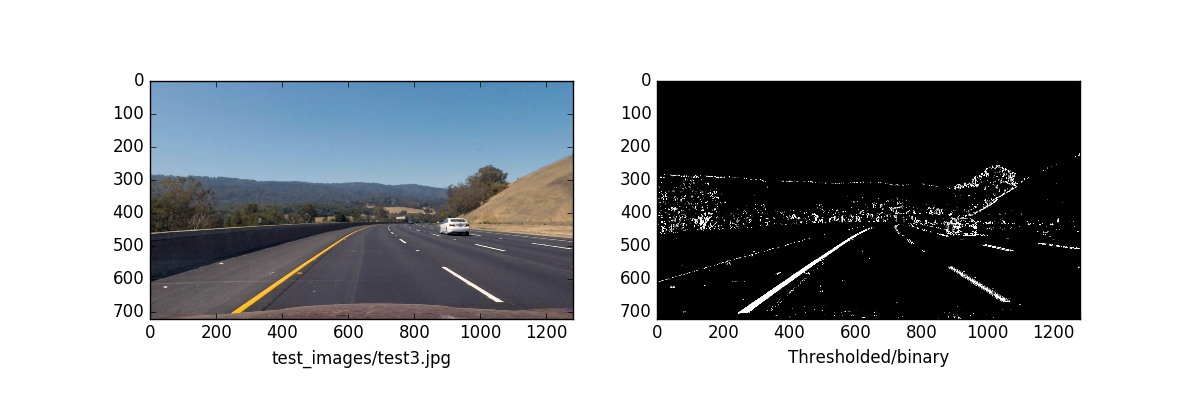
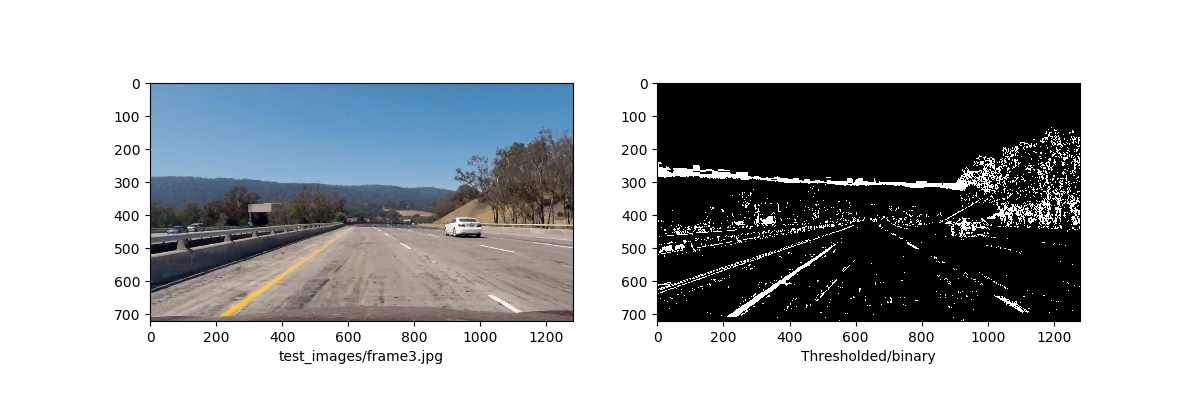
Improved frame-to-frame smoothing

diff --git a/p4.py b/p4.py
@@ -87,8 +87,14 @@ def transform_binary(img, sobel_kernel=3, s_thresh=(150, 255), sx_thresh=(20, 10
     color_binary = np.dstack((combined_binary,combined_binary,combined_binary))
 
     # pick from colors
-    yellow = cv2.inRange(hls,(10,0,200),(40,200,255))
-    white =  cv2.inRange(hls,(10,200,150),(40,250,255))
+
+    # hls = cv2.cvtColor(img, cv2.COLOR_RGB2HLS)
+    # yellow = cv2.inRange(hls,(10,0,200),(40,200,255))
+    # white =  cv2.inRange(hls,(10,200,150),(40,250,255))
+
+    hsv = cv2.cvtColor(img, cv2.COLOR_RGB2HSV)
+    yellow = cv2.inRange(hsv,(0,100,100),(50,255,255))
+    white =  cv2.inRange(hsv,(20,0,180),(255,80,255))
     yw = yellow | white | combined_binary
     yw_color = np.dstack((yw,yw,yw))
 
@@ -142,11 +148,13 @@ def detect_lanelines_swin(binary_warped):
     """This part of the code was based on Udacity module content"""
     # Assuming you have created a warped binary image called "binary_warped"
 
+    ny, nx = binary_warped.shape
+
     # Take a histogram of the bottom half of the image
     histogram = np.sum(binary_warped[int(binary_warped.shape[0]/2):, :], axis=0)
 
     # Create an output image to draw on and  visualize the result
-    out_img = np.dstack((binary_warped, binary_warped, binary_warped)) * 255
+    out_img = np.dstack((binary_warped, binary_warped, binary_warped)) #* 255
 
     # Find the peak of the left and right halves of the histogram
     # These will be the starting point for the left and right lines
@@ -180,7 +188,9 @@ def detect_lanelines_swin(binary_warped):
     right_lane_inds = []
 
     # Step through the windows one by one
+    count, lcount, rcount = 0, 0, 0
     for window in range(nwindows):
+        count += 1
         # Identify window boundaries in x and y (and right and left)
         win_y_low = binary_warped.shape[0] - (window + 1) * window_height
         win_y_high = binary_warped.shape[0] - window * window_height
@@ -214,6 +224,14 @@ def detect_lanelines_swin(binary_warped):
         if len(good_right_inds) > minpix:
             rightx_current = np.int(np.mean(nonzerox[good_right_inds]))
 
+        lcount += len(good_left_inds)
+        rcount += len(good_right_inds)
+        #print("Window #{}, Lpixels = {}, Rpixels = {}".format(count,lcount,rcount))
+        #if lcount>20000 or rcount>20000:
+        #    break
+        if win_xleft_low<=5 or win_xright_high>=(nx-5):
+            break
+
     # Concatenate the arrays of indices
     left_lane_inds = np.concatenate(left_lane_inds)
     right_lane_inds = np.concatenate(right_lane_inds)
@@ -225,10 +243,15 @@ def detect_lanelines_swin(binary_warped):
     righty = nonzeroy[right_lane_inds]
 
     # Fit a second order polynomial to each
-    left_fit = np.polyfit(lefty, leftx, 2)
-    right_fit = np.polyfit(righty, rightx, 2)
+    try:
+        left_fit = np.polyfit(lefty, leftx, 2)
+        right_fit = np.polyfit(righty, rightx, 2)
+        #print(left_fit,right_fit)
+    except TypeError:
+        left_fit = [0.0, 0.0, -200.0]
+        right_fit = [0.0, 0.0, 450.0]
 
-    return left_fit, right_fit, out_img
+    return left_fit, right_fit, out_img, len(leftx), len(lefty)
 
 def static_vars(**kwargs):
     def decorate(func):
@@ -237,19 +260,24 @@ def static_vars(**kwargs):
         return func
     return decorate
 
-@static_vars(old_left_fit=None, old_right_fit=None)
+@static_vars(old_left_fit=None, old_right_fit=None, old_nleft=0, old_nright=0)
 def detect_lanelines(binary_warped,alpha=1.0,average_curves=True):
     olf = detect_lanelines.old_left_fit
     orf = detect_lanelines.old_right_fit
+    onl = detect_lanelines.old_nleft
+    onr = detect_lanelines.old_nright
 
     # The lane-detection frmo previous curve does not work properly when there is too much deviation
     #left_fit, right_fit, out_img = detect_lanelines_near(binary_warped, olf, orf)
 
     # Detect using moving windows
-    left_fit, right_fit, out_img = detect_lanelines_swin(binary_warped)
+    left_fit, right_fit, out_img, nleft, nright = detect_lanelines_swin(binary_warped)
+
     if olf is None or orf is None:
         olf = left_fit
         orf = right_fit
+        onl = nleft
+        onr = nright
 
     # Left and right curves should have same coefficients on left and right for second order terms
     if average_curves:
@@ -266,12 +294,25 @@ def detect_lanelines(binary_warped,alpha=1.0,average_curves=True):
 
 
     # Moving average of curve fit
-    left_fit = alpha*left_fit + (1-alpha)*olf
-    right_fit = alpha * right_fit + (1-alpha) * orf
+    ldiff = (left_fit - olf)/olf
+    rdiff = (right_fit - orf)/orf
+    outstr = "ldiff = {}, rdiff = {}".format(ldiff,rdiff)
+    cv2.putText(out_img,outstr, (20, 20), cv2.FONT_HERSHEY_PLAIN, 2, (255,255,255), 1)
 
+    if nleft<5000:
+        left_fit = olf
+        right_fit = orf
+    # elif max(ldiff)>0.5 or max(rdiff)>0.5:
+    #     left_fit = olf
+    #     right_fit = orf
+    else:
+        detect_lanelines.old_left_fit = left_fit
+        detect_lanelines.old_right_fit = right_fit
+        detect_lanelines.old_nleft = nleft
+        detect_lanelines.old_nright = nright
+        left_fit = alpha*left_fit + (1-alpha)*olf
+        right_fit = alpha * right_fit + (1-alpha) * orf
 
-    detect_lanelines.old_left_fit = left_fit
-    detect_lanelines.old_right_fit = right_fit
 
     return left_fit, right_fit, out_img
 
@@ -392,8 +433,8 @@ def process_video(vidfile,writeToFile=True):
     clip1 = VideoFileClip(vidfile)
     vpipeline = lambda x: pipeline(x,mtx,dist)
     white_clip = clip1.fl_image(vpipeline)
-    #white_clip.preview(fps=25)
-    if writeToFile: white_clip.write_videofile(lanevid, audio=False)
+    white_clip.preview(fps=25)
+    #if writeToFile: white_clip.write_videofile(lanevid, audio=False)
     return lanevid
 
 

diff --git a/generate_images.py b/generate_images.py
@@ -24,7 +24,7 @@ if __name__=='__main__':
     fig1.savefig('output_images/figure_1.png')
 
     # Distortion correction
-    for imgfile in glob.glob('test_images/test3.jpg'):
+    for imgfile in glob.glob('test_images/frame*.jpg'):
         #imgfile = 'test_images/test3.jpg'
         img = plt.imread(imgfile)
         mtx, dist = calibrate_camera()
@@ -45,7 +45,7 @@ if __name__=='__main__':
         fig4= plot2(binary_warped,undist_warped,'binary_warped','undistorted_warped')
         fig4.savefig('output_images/figure_4.png')
 
-        left_fit, right_fit, win_img = detect_lanelines(binary_warped[:,:,0],alpha=0.9)
+        left_fit, right_fit, win_img = detect_lanelines(binary_warped[:,:,1],alpha=0.9)
         overlaid,overlay1,overlay2,offset_distance,rcurve= overlay_lane(undistorted, left_fit, right_fit, Minv)
 
         fig5= plot2(win_img,overlay1,'Laneline Identification','Lane mask')
